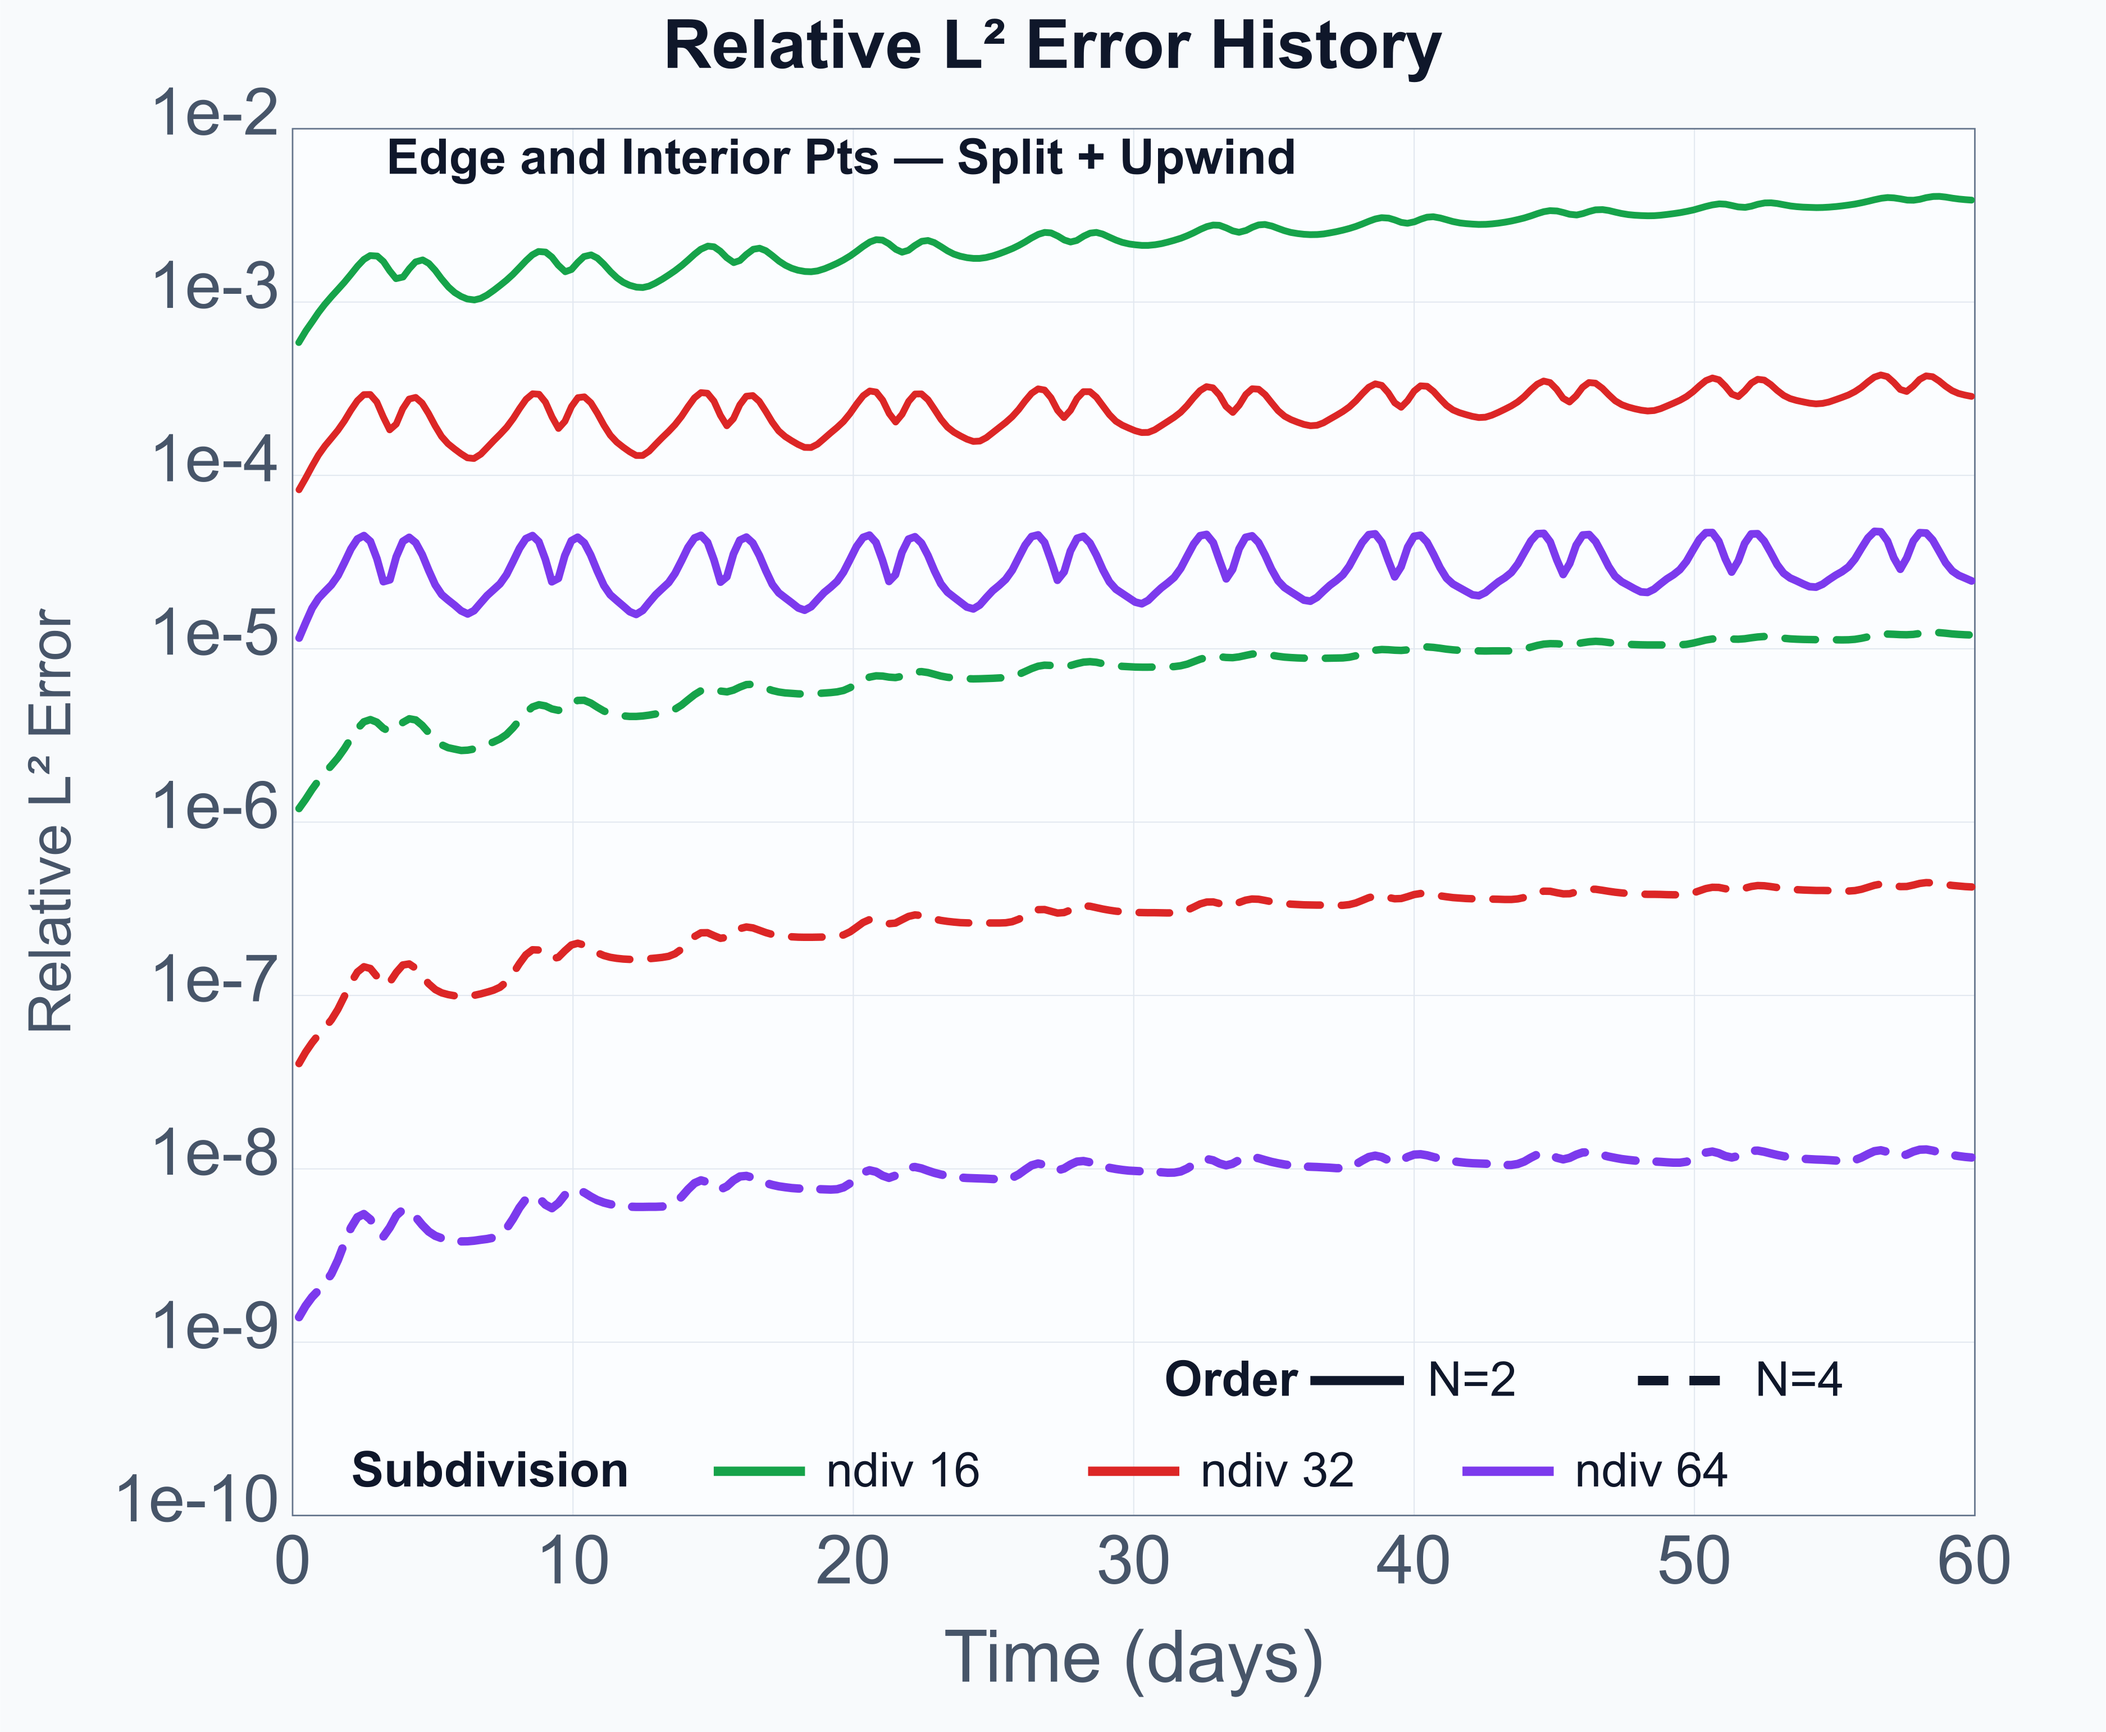
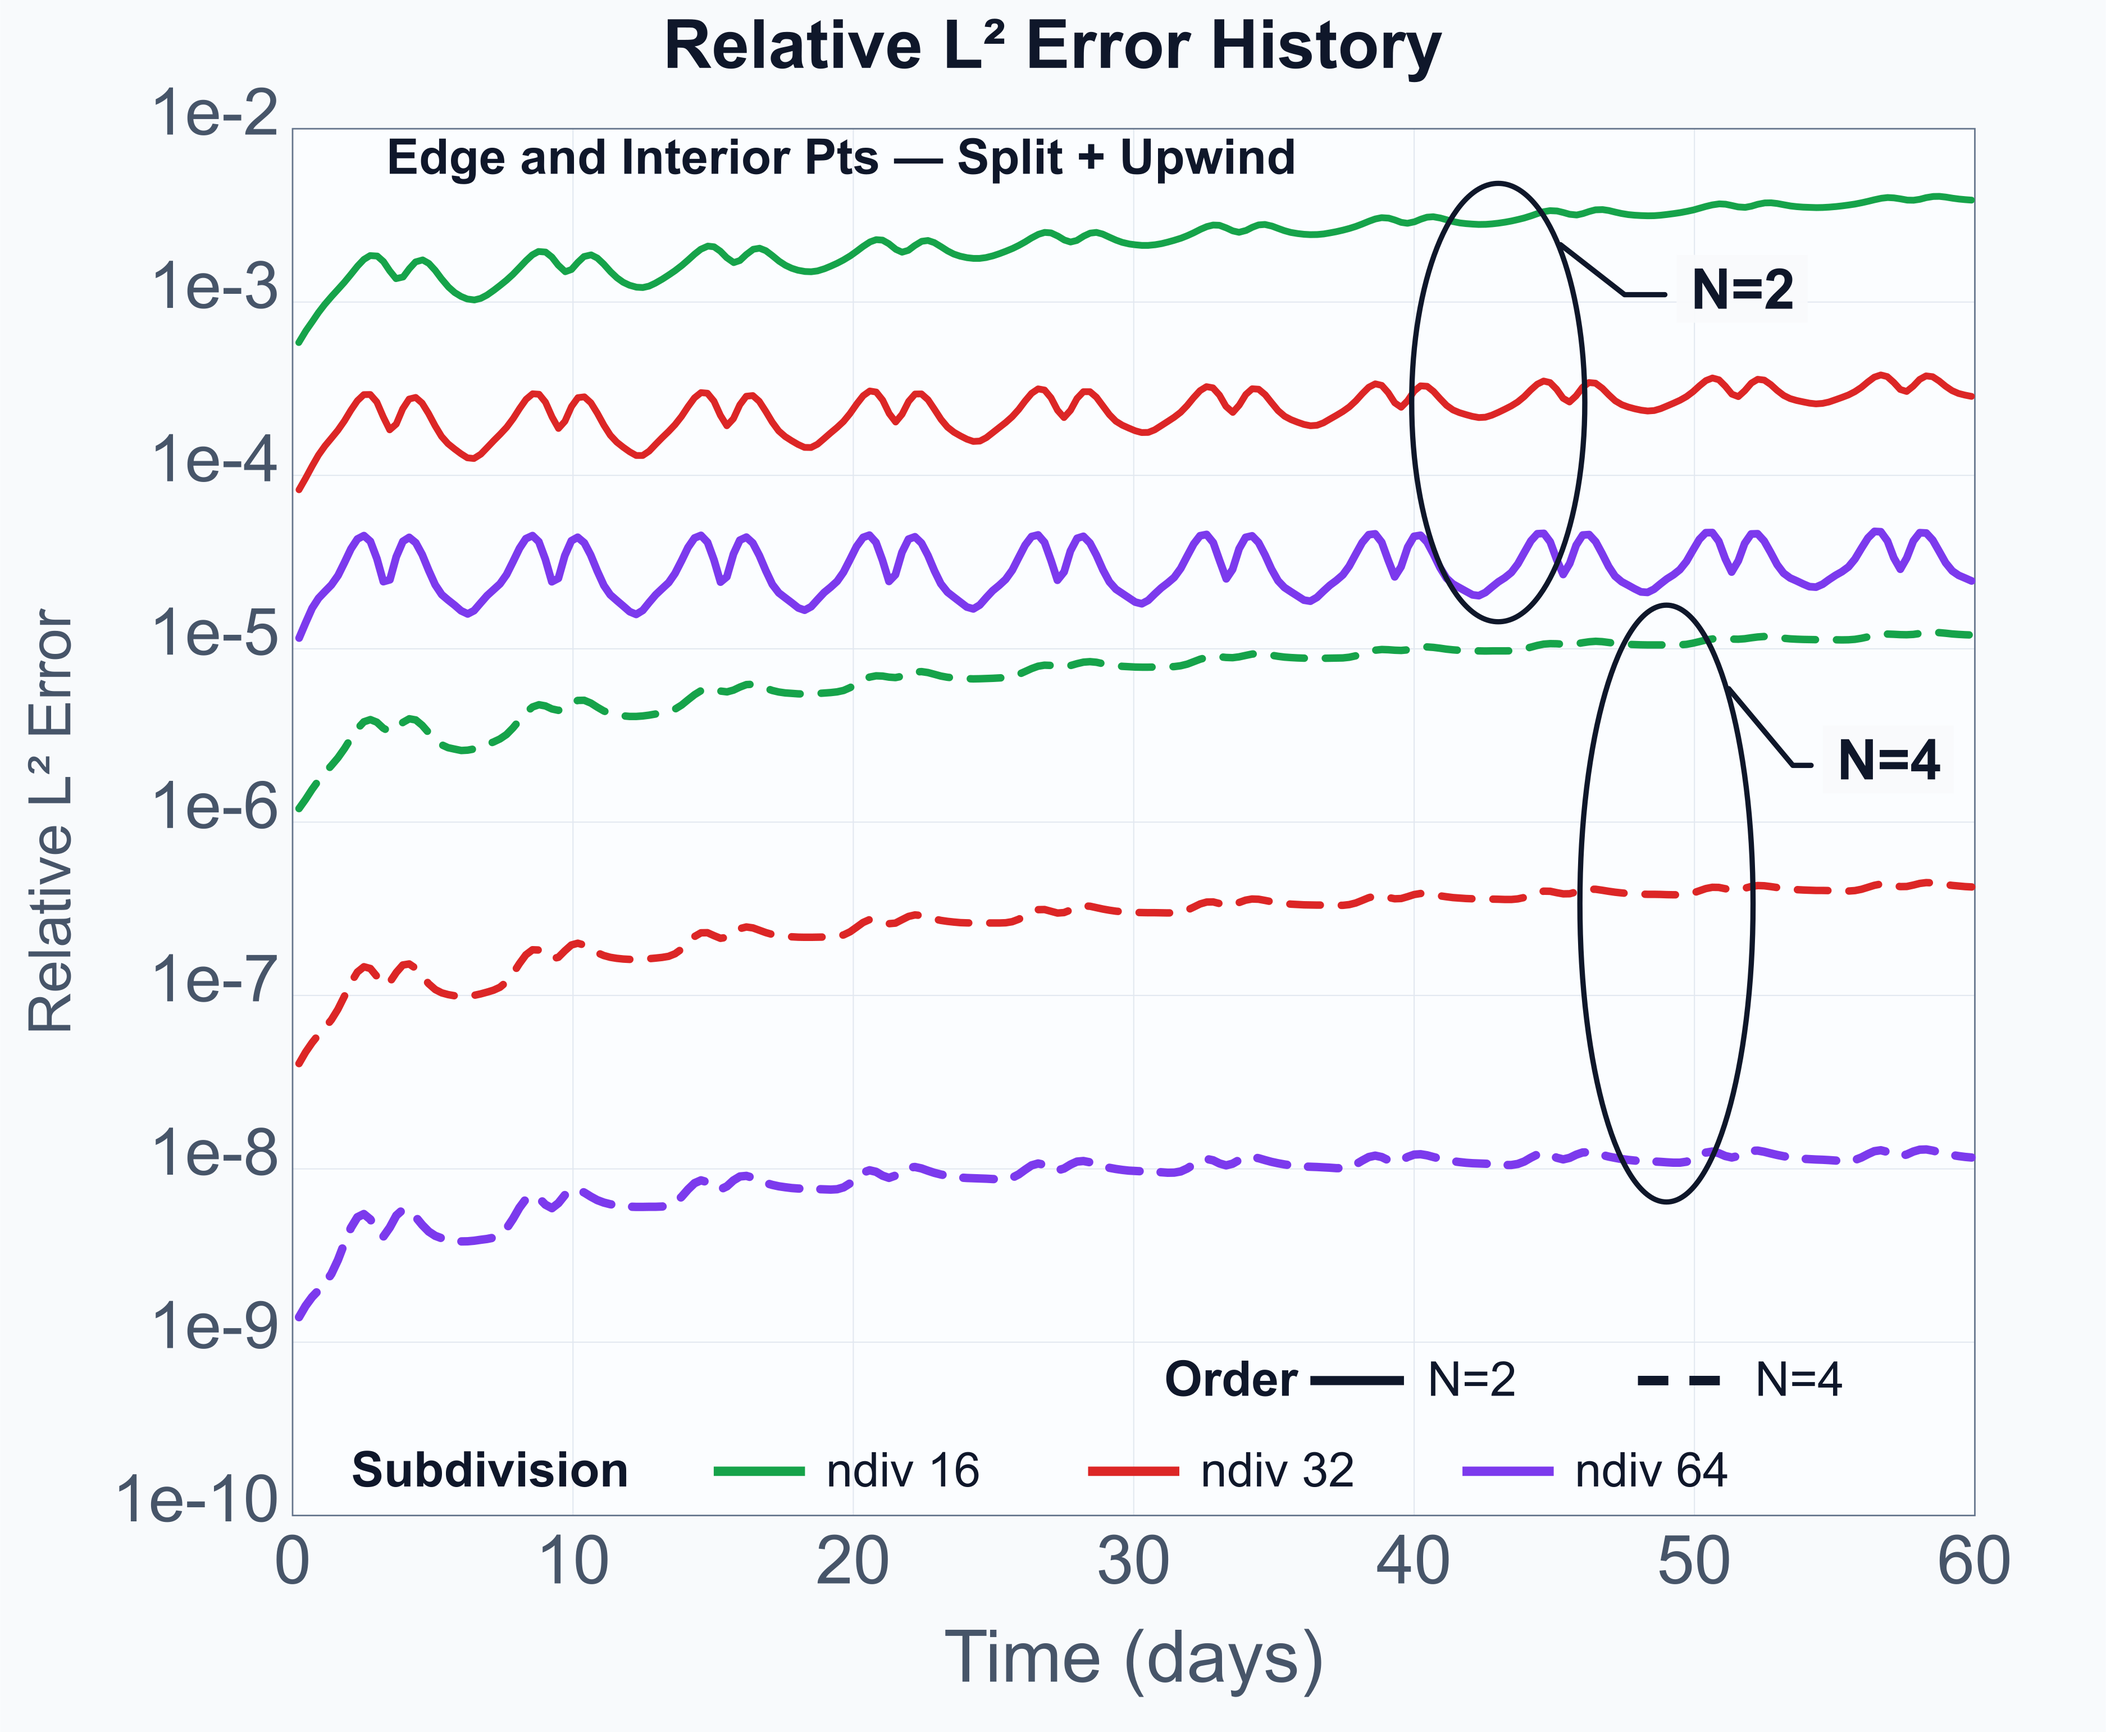
Fix all Prof. requesses

diff --git a/index.html b/index.html
@@ -404,7 +404,7 @@
         <div class="card">
           <h2 class="card-title">Abstract</h2>
           <p>
-            A split-form discontinuous Galerkin method on octahedral spherical meshes is developed to eliminate pole singularities and discrete chain rule errors. Numerical experiments demonstrate designed high-order accuracy and machine-precision mass conservation ($\sim 10^{-14}$) for spherical transport problems.
+            A discontinuous Galerkin method in split form is developed on octahedral spherical simplex meshes. Numerical experiments demonstrate designed high-order accuracy,consistent error reduction under mesh refinement across time, and machine-precision mass conservation ($\sim 10^{-14}$) for spherical transport problems.
           </p>
         </div>
 
@@ -477,10 +477,12 @@
               <!-- Block 2: Octahedral Mapping -->
               <div class="sub-card">
                 <span class="sub-card-title">2. Octahedral Mapping</span>
-                <div class="equation-container" style="font-size: 0.56rem; padding: 1px; width: 100%;">
-                  $$\mathbf{x}_s = R \frac{\mathbf{x}_{\text{flat}}}{\|\mathbf{x}_{\text{flat}}\|}$$
+                <div style="position: relative; width: 100%; margin: 2px 0;">
+                  <img src="Octahedral_Mapping_v3.png" alt="Octahedral Mapping" style="width: 100%; display: block;">
+                  <div class="equation-container" style="position: absolute; top: 4px; right: 4px; font-size: 0.56rem; padding: 2px 5px; background: rgba(248, 250, 252, 0.95); border: 1px solid #cbd5e1; border-radius: 3px; z-index: 2; margin: 0; box-shadow: 0 1px 3px rgba(0,0,0,0.08);">
+                    $$\mathbf{x}_p = R \frac{\mathbf{x}_{\text{flat}}}{\|\mathbf{x}_{\text{flat}}\|}$$
+                  </div>
                 </div>
-                <img src="Octahedral_Mapping_v2.png" alt="Octahedral Mapping">
                 <div class="fig-title">Figure 2: Radial Projection Mapping</div>
               </div>
 
@@ -530,8 +532,16 @@
         <!-- References -->
         <div class="card">
           <h2 class="card-title">References</h2>
-          <div class="placeholder-box" style="height: 48px;">
-            [ References Placeholder / 參考文獻預留位 ]
+          <ol style="margin-left: 13px; font-size: 0.53rem; line-height: 1.22; color: #334155; margin-bottom: 3px;">
+            <li style="margin-bottom: 2px;">
+              T. Chen and C.-W. Shu, "Entropy stable high order discontinuous Galerkin methods with suitable quadrature rules on triangular meshes," <em>J. Comput. Phys.</em>, 345: 427–461, 2017.
+            </li>
+            <li style="margin-bottom: 2px;">
+              T. Chen and C.-W. Shu, "Review of entropy stable discontinuous Galerkin methods for systems of conservation laws on unstructured simplex meshes," <em>Commun. Comput. Phys.</em>, 2020.
+            </li>
+          </ol>
+          <div class="placeholder-box" style="height: 22px; font-size: 0.52rem;">
+            [ 幾何映射與平流測試案例相關文獻待補 / Mapping & Test Cases References Pending ]
           </div>
         </div>
 
@@ -580,7 +590,7 @@
             <div class="error-sub-block">
               <strong style="font-size: 0.60rem; color: var(--tsfd-navy);">Relative $L^2$ Error</strong>
               <div class="equation-container" style="font-size: 0.52rem; padding: 0; border: none; background: transparent;">
-                $$e_{L^2} = \sqrt{\frac{\int_{\Omega} J(q - q_{\text{ex}})^2 d\Omega}{\int_{\Omega} Jq_{\text{ex}}^2 d\Omega}}$$
+                $$\|e\|_2 = \sqrt{\frac{\int_{\Omega} J(q - q_{\text{ex}})^2 d\Omega}{\int_{\Omega} Jq_{\text{ex}}^2 d\Omega}}$$
               </div>
             </div>
 
@@ -588,7 +598,7 @@
             <div class="error-sub-block">
               <strong style="font-size: 0.60rem; color: var(--tsfd-navy);">Relative $L^\infty$ Error</strong>
               <div class="equation-container" style="font-size: 0.52rem; padding: 0; border: none; background: transparent;">
-                $$e_{L^\infty} = \frac{\max_{\Omega} J|q - q_{\text{ex}}|}{\max_{\Omega} J|q_{\text{ex}}|}$$
+                $$\|e\|_\infty = \frac{\max_{\Omega} J|q - q_{\text{ex}}|}{\max_{\Omega} J|q_{\text{ex}}|}$$
               </div>
             </div>
 
@@ -610,9 +620,9 @@
                   <th>$N$</th>
                   <th>ndiv</th>
                   <th>DOFs</th>
-                  <th>$e_{L^2}$</th>
+                  <th>$\|e\|_2$</th>
                   <th>Order</th>
-                  <th>$e_{L^\infty}$</th>
+                  <th>$\|e\|_\infty$</th>
                   <th>Order</th>
                   <th>$\Delta M_{\text{rel}}$</th>
                 </tr>
@@ -622,48 +632,48 @@
                 <tr>
                   <td rowspan="6" style="font-size: 0.58rem; font-weight: bold;">edge and interior pts.</td>
                   <td rowspan="3">2</td>
-                  <td>16</td><td>20,480</td><td>3.869e-03</td><td>3.55</td><td>x.xxxe-xx</td><td>x.xx</td><td>-5.87e-15</td>
+                  <td>16</td><td>20,480</td><td>3.869e-03</td><td>3.55</td><td>6.527e+00</td><td>3.08</td><td>-5.87e-15</td>
                 </tr>
                 <tr>
-                  <td>32</td><td>81,920</td><td>2.837e-04</td><td>3.77</td><td>x.xxxe-xx</td><td>x.xx</td><td>-1.21e-14</td>
+                  <td>32</td><td>81,920</td><td>2.837e-04</td><td>3.77</td><td>6.067e-01</td><td>3.43</td><td>-1.21e-14</td>
                 </tr>
                 <tr class="exp-divider">
-                  <td>64</td><td>327,680</td><td>2.415e-05</td><td>3.55</td><td>x.xxxe-xx</td><td>x.xx</td><td>-2.40e-14</td>
+                  <td>64</td><td>327,680</td><td>2.415e-05</td><td>3.55</td><td>9.860e-02</td><td>2.62</td><td>-2.40e-14</td>
                 </tr>
 
                 <tr>
                   <td rowspan="3">4</td>
-                  <td>16</td><td>45,056</td><td>1.198e-05</td><td>4.45</td><td>x.xxxe-xx</td><td>x.xx</td><td>5.47e-15</td>
+                  <td>16</td><td>45,056</td><td>1.198e-05</td><td>4.45</td><td>2.199e-02</td><td>4.29</td><td>5.47e-15</td>
                 </tr>
                 <tr>
-                  <td>32</td><td>180,224</td><td>4.220e-07</td><td>4.83</td><td>x.xxxe-xx</td><td>x.xx</td><td>1.00e-14</td>
+                  <td>32</td><td>180,224</td><td>4.220e-07</td><td>4.83</td><td>9.015e-04</td><td>4.61</td><td>1.00e-14</td>
                 </tr>
                 <tr class="exp-divider">
-                  <td>64</td><td>720,896</td><td>1.158e-08</td><td>5.19</td><td>x.xxxe-xx</td><td>x.xx</td><td>1.81e-14</td>
+                  <td>64</td><td>720,896</td><td>1.158e-08</td><td>5.19</td><td>2.434e-05</td><td>5.21</td><td>1.81e-14</td>
                 </tr>
 
                 <!-- Table 2 Block (Rowspan 6) -->
                 <tr>
                   <td rowspan="6" style="font-size: 0.58rem; font-weight: bold;">interior pts.</td>
                   <td rowspan="3">2</td>
-                  <td>16</td><td>12,288</td><td>4.008e-04</td><td>4.42</td><td>x.xxxe-xx</td><td>x.xx</td><td>6.27e-15</td>
+                  <td>16</td><td>12,288</td><td>4.008e-04</td><td>4.42</td><td>7.482e-01</td><td>4.31</td><td>6.27e-15</td>
                 </tr>
                 <tr>
-                  <td>32</td><td>49,152</td><td>2.669e-05</td><td>3.91</td><td>x.xxxe-xx</td><td>x.xx</td><td>1.52e-14</td>
+                  <td>32</td><td>49,152</td><td>2.669e-05</td><td>3.91</td><td>5.135e-02</td><td>3.87</td><td>1.52e-14</td>
                 </tr>
                 <tr class="exp-divider">
-                  <td>64</td><td>196,608</td><td>2.873e-06</td><td>3.22</td><td>x.xxxe-xx</td><td>x.xx</td><td>3.04e-14</td>
+                  <td>64</td><td>196,608</td><td>2.873e-06</td><td>3.22</td><td>6.326e-03</td><td>3.02</td><td>3.04e-14</td>
                 </tr>
 
                 <tr>
                   <td rowspan="3">4</td>
-                  <td>16</td><td>32,768</td><td>1.978e-06</td><td>5.07</td><td>x.xxxe-xx</td><td>x.xx</td><td>-1.51e-14</td>
+                  <td>16</td><td>32,768</td><td>1.978e-06</td><td>5.07</td><td>3.791e-03</td><td>4.90</td><td>-1.51e-14</td>
                 </tr>
                 <tr>
-                  <td>32</td><td>131,072</td><td>6.094e-08</td><td>5.02</td><td>x.xxxe-xx</td><td>x.xx</td><td>-2.99e-14</td>
+                  <td>32</td><td>131,072</td><td>6.094e-08</td><td>5.02</td><td>1.523e-04</td><td>4.64</td><td>-2.99e-14</td>
                 </tr>
                 <tr>
-                  <td>64</td><td>524,288</td><td>1.622e-09</td><td>5.23</td><td>x.xxxe-xx</td><td>x.xx</td><td>-6.45e-14</td>
+                  <td>64</td><td>524,288</td><td>1.622e-09</td><td>5.23</td><td>2.595e-06</td><td>5.88</td><td>-6.45e-14</td>
                 </tr>
               </tbody>
             </table>
@@ -680,13 +690,16 @@
           </div>
         </div>
 
-        <!-- 6. Conclusion -->
+        <!-- 6. Conclusions -->
         <div class="card">
-          <h2 class="card-title">6. Conclusion</h2>
-          <ul style="margin-left: 15px; font-size: 0.68rem; line-height: 1.38; padding-left: 2px;">
-            <li><strong>Singularity-Free Geometric Mapping:</strong> The octahedron-based spherical mapping eliminates coordinate pole singularities, providing uniform resolution across the sphere.</li>
-            <li><strong>Machine-Precision Conservation & Stability:</strong> The split-form DG scheme achieves exact mass conservation down to machine precision ($\Delta M_{\text{rel}} \sim 10^{-14}$) and ensures long-term numerical/energy stability.</li>
-            <li><strong>High-Order Convergence:</strong> Solid-body rotation tests confirm designed high-order convergence rates of at least $\mathcal{O}(h^{N+1})$ in relative $L^2$ error norms across different quadrature node configurations.</li>
+          <h2 class="card-title">6. Conclusions</h2>
+          <p style="margin-bottom: 3px; font-size: 0.68rem;">
+            This study evaluates a discontinuous Galerkin method in split form for spherical transport problems on octahedral meshes. The main findings and advantages are summarized as follows:
+          </p>
+          <ul style="margin-left: 12px; font-size: 0.67rem; line-height: 1.32;">
+            <li><strong>Singularity-Free Geometric Mapping:</strong> Eliminates coordinate pole singularities, providing uniform resolution across the sphere.</li>
+            <li><strong>Machine-Precision Conservation & Stability:</strong> Achieves exact mass conservation down to machine precision ($\Delta M_{\text{rel}} \sim 10^{-14}$) and ensures long-term numerical stability.</li>
+            <li><strong>High-Order Convergence:</strong> Solid-body rotation tests confirm designed convergence rates of at least $\mathcal{O}(h^{N+1})$ in relative $L^2$ error norms across all node sets.</li>
           </ul>
         </div>
 
